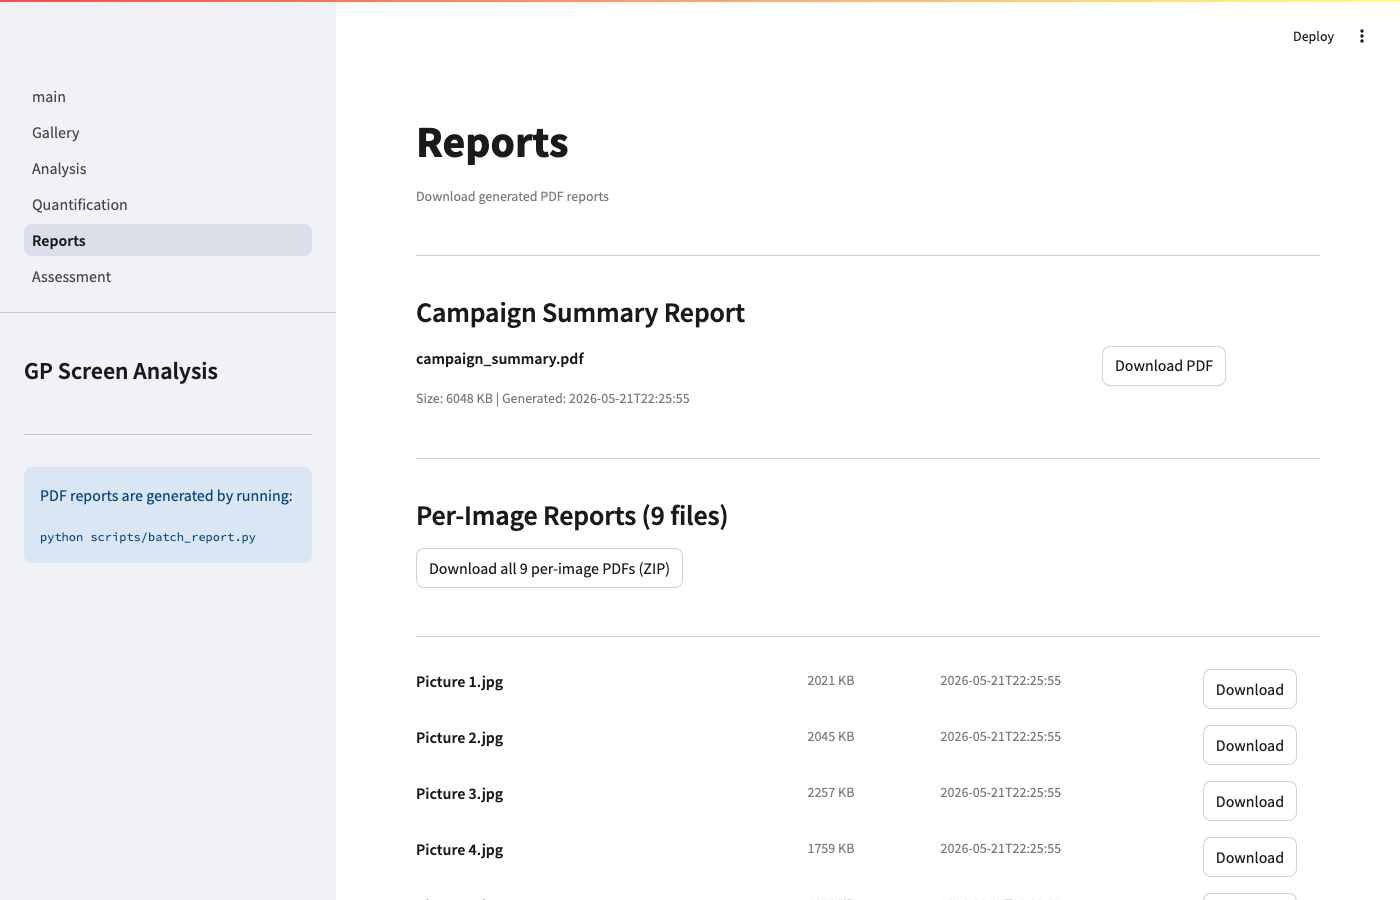
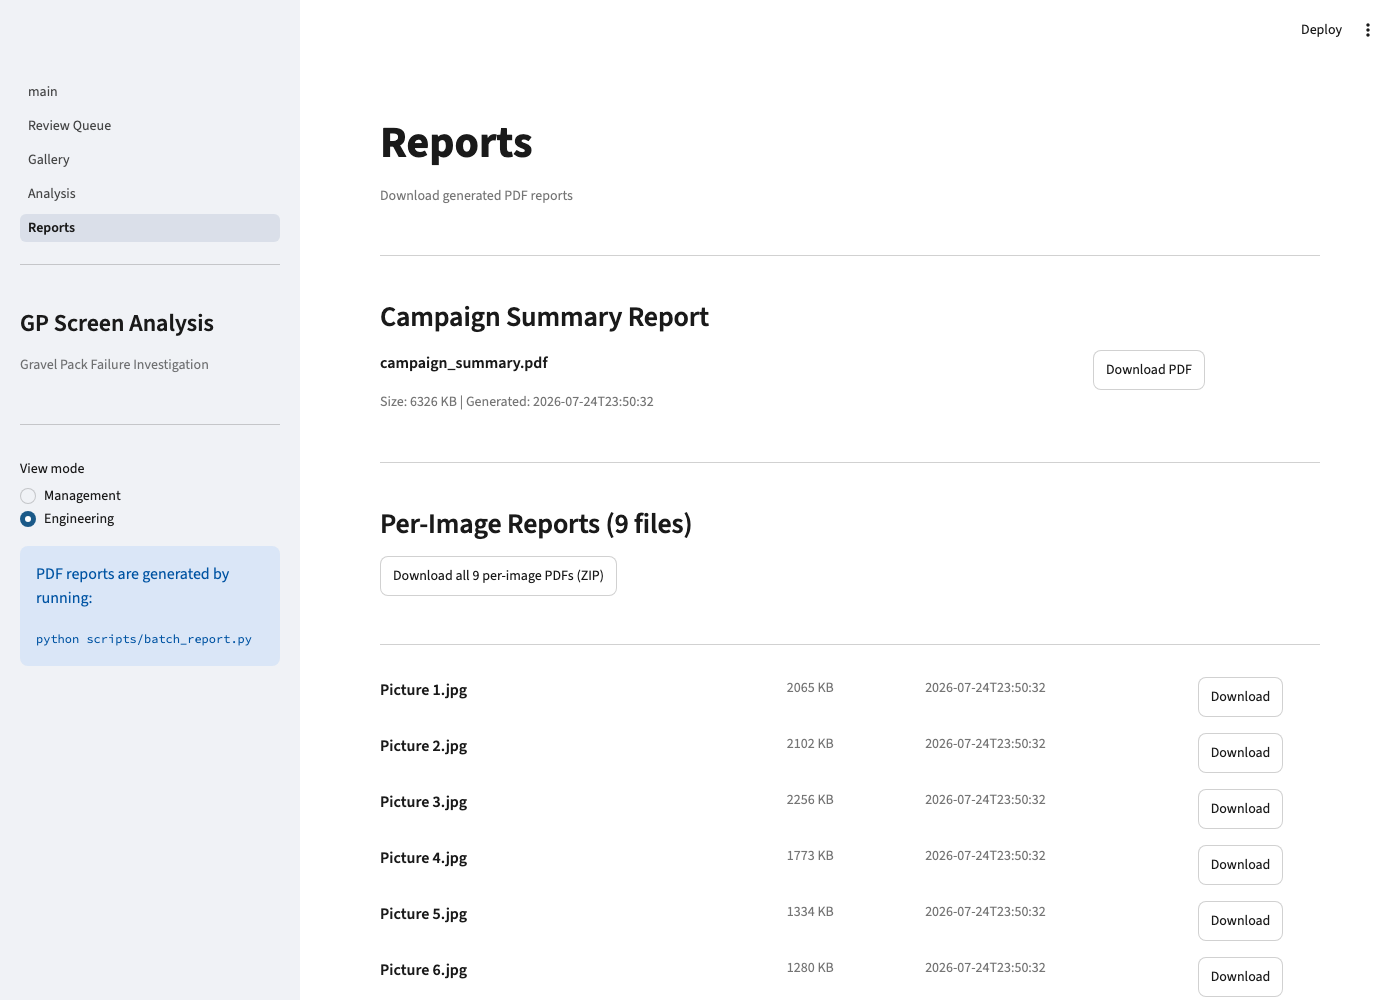
Update README screenshots for the restructured dashboard; fix report duplication bug
Replaced all screenshots (captured against the real running app via a
temporary Playwright install, since neither the Chrome extension nor
any headless browser tooling was available otherwise) to reflect the
current 5-page IA: Overview (Dashboard/Assessment/Full Data tabs),
Review Queue, Gallery (+ well tagging + screen comparison), Analysis,
Reports. Removed 5 screenshots for pages that no longer exist.

While capturing the Reports screenshot, found a real bug: every PDF
appeared twice (18 files instead of 9). insert_report() always did a
blind INSERT with an autoincrement PK, unlike every other store module
in this codebase, which upsert via a natural key — so every pipeline
re-run duplicated all report records instead of replacing them. Fixed
by looking up the existing record via (report_type, image_id) before
inserting, with no schema change (existing DBs keep their `id` column
as-is). Cleaned the 20 stale duplicate rows out of the tracked sample
DB and regenerated reports cleanly. Added 2 regression tests covering
the rerun-replaces-not-duplicates behavior for both per-image and
summary reports.

279 tests pass (2 new).

diff --git a/tests/test_reporting.py b/tests/test_reporting.py
@@ -241,8 +241,8 @@ class TestReportStore:
         db = tmp_path / "rep2.db"
         SessionFactory = ensure_table(db)
         with SessionFactory() as session:
-            insert_report(session, "per_image", "/a.pdf", "ts")
-            insert_report(session, "per_image", "/b.pdf", "ts")
+            insert_report(session, "per_image", "/a.pdf", "ts", image_id="img_a")
+            insert_report(session, "per_image", "/b.pdf", "ts", image_id="img_b")
             insert_report(session, "summary", "/s.pdf", "ts")
             session.commit()
         with SessionFactory() as session:
@@ -250,6 +250,35 @@ class TestReportStore:
             summ = get_reports(session, "summary")
         assert len(per) == 2
         assert len(summ) == 1
+
+    def test_rerun_replaces_existing_record_instead_of_duplicating(self, tmp_path):
+        db = tmp_path / "rerun.db"
+        SessionFactory = ensure_table(db)
+        with SessionFactory() as session:
+            insert_report(session, "per_image", "/out/a_v1.pdf", "ts1", image_id="img_a")
+            session.commit()
+        with SessionFactory() as session:
+            insert_report(session, "per_image", "/out/a_v2.pdf", "ts2", image_id="img_a")
+            session.commit()
+        with SessionFactory() as session:
+            recs = get_reports(session, "per_image")
+        assert len(recs) == 1
+        assert recs[0].pdf_path == "/out/a_v2.pdf"
+        assert recs[0].run_timestamp == "ts2"
+
+    def test_rerun_replaces_summary_record_instead_of_duplicating(self, tmp_path):
+        db = tmp_path / "rerun_summary.db"
+        SessionFactory = ensure_table(db)
+        with SessionFactory() as session:
+            insert_report(session, "summary", "/out/s_v1.pdf", "ts1")
+            session.commit()
+        with SessionFactory() as session:
+            insert_report(session, "summary", "/out/s_v2.pdf", "ts2")
+            session.commit()
+        with SessionFactory() as session:
+            recs = get_reports(session, "summary")
+        assert len(recs) == 1
+        assert recs[0].pdf_path == "/out/s_v2.pdf"
 
     def test_multiple_per_image_reports(self, tmp_path):
         db = tmp_path / "multi.db"

diff --git a/src/reporting/store.py b/src/reporting/store.py
@@ -36,14 +36,28 @@ def insert_report(
     image_id: str | None = None,
     source_filename: str | None = None,
 ) -> ReportRecord:
-    record = ReportRecord(
-        report_type=report_type,
-        image_id=image_id,
-        source_filename=source_filename,
-        pdf_path=pdf_path,
-        run_timestamp=run_timestamp,
+    """Insert or update the record for (report_type, image_id).
+
+    Looked up by a WHERE query rather than a natural primary key so re-running
+    the reporting pipeline replaces prior rows instead of accumulating
+    duplicates — `id` stays a plain autoincrement PK (no schema change) since
+    this table may already exist on disk with that column.
+    """
+    query = session.query(ReportRecord).filter(ReportRecord.report_type == report_type)
+    query = (
+        query.filter(ReportRecord.image_id == image_id)
+        if image_id is not None
+        else query.filter(ReportRecord.image_id.is_(None))
     )
-    session.add(record)
+    record = query.first()
+    if record is None:
+        record = ReportRecord(report_type=report_type, image_id=image_id)
+        session.add(record)
+
+    record.source_filename = source_filename
+    record.pdf_path = pdf_path
+    record.run_timestamp = run_timestamp
+
     session.flush()
     return record
 

diff --git a/README.md b/README.md
@@ -72,31 +72,34 @@ python scripts/batch_inference.py --input Image/ --output outputs/
 
 ## Dashboard Pages
 
-Role-based views are available — Engineering users see full technical detail; management views show summary KPIs and trends.
+Five pages, organised around what an engineer actually needs to do rather than
+around pipeline stages. Role-based views are available on every page —
+Engineering users see full technical detail; management views show summary
+KPIs and trends. The Management/Engineering choice persists as you navigate
+between pages.
 
-### Home — Campaign Overview
-![Home](docs/screenshots/01_home.png)
-Campaign KPIs (images analysed, mean and max erosion %, total defects, review flags), erosion % bar chart ranked by severity, failure type distribution, and severity breakdown. Hover over any erosion % metric to see the exact formula.
+### Overview — Campaign Dashboard, Assessment & Full Data
+![Overview](docs/screenshots/01_overview.png)
+Three tabs on one page instead of three separate ones. **Dashboard**: campaign KPIs (images analysed, mean/max erosion %, total defects, review flags — with a direct link into the Review Queue when any are flagged), erosion % bar chart ranked by severity, failure type distribution, and severity breakdown. **Assessment**: colour-coded campaign risk banner, observed conditions generated from actual data, morphological classification basis per failure type, potential root causes, and prioritised recommended actions. **Full Data & Export**: erosion-vs-defect-count scatter, the complete per-image metrics table, and CSV export for both the metrics table and the full defects table.
 
-### Gallery — Image Browser
-![Gallery](docs/screenshots/02_gallery.png)
-Thumbnail grid of annotated screen images, sortable by erosion % or severity, with per-card defect summary and review flags.
+### Review Queue — Triage Worklist
+![Review Queue](docs/screenshots/02_review_queue.png)
+Every detection flagged for human review, sorted least-confident-first, with the model's own reasoning string per row. Mark items reviewed inline (persisted to the database, not just session state) and the queue shrinks — toggle "show already-reviewed" to bring them back. Filter by severity or failure type, and jump straight to the full per-image view for any row.
+
+### Gallery — Browse, Tag Wells & Compare Screens
+![Gallery](docs/screenshots/03_gallery.png)
+Thumbnail grid of annotated screen images, sortable and filterable by severity or dominant failure type. Tag images with a well name and completion zone, then group the grid by well. Select two or more screens for comparison:
+
+![Gallery comparison](docs/screenshots/03b_gallery_compare.png)
+Side-by-side metrics table and annotated thumbnails for just the selected screens, plus an erosion % chart scoped to the comparison.
 
 ### Analysis — Per-Image Detail
-![Analysis](docs/screenshots/03_analysis.png)
-Six KPI cards: erosion % (formula tooltip), defect count, severity (threshold tooltip), dominant failure type, mean model confidence, and review flag count. Engineering view adds: image quality panel (focus score, illumination, quality flag, screen coverage); auto-generated engineering assessment with risk level, likely mechanism, plain-English interpretation, and morphological classification basis explaining *why* the failure type was assigned; scale calibration UI to enter pixels/mm from a visible ruler — instantly converts all diameters to mm and areas to cm²; per-defect table with the model's own reasoning string per detection.
-
-### Quantification — Metrics & Charts
-![Quantification](docs/screenshots/04_quantification.png)
-Erosion % bar chart with labelled severity thresholds and full metric definition in the caption. Full metrics table includes largest defect %, average defect diameter, and mean model confidence columns.
+![Analysis](docs/screenshots/04_analysis.png)
+Six KPI cards: erosion % (formula tooltip), defect count, severity (threshold tooltip), dominant failure type, mean model confidence, and review flag count. Engineering view adds: image quality panel (focus score, illumination, quality flag, screen coverage); auto-generated engineering assessment with risk level, likely mechanism, plain-English interpretation, and morphological classification basis explaining *why* the failure type was assigned; scale calibration UI to enter pixels/mm from a visible ruler — instantly converts all diameters to mm and areas to cm²; per-defect table with the model's own reasoning string per detection and an inline reviewed checkbox that stays in sync with the Review Queue. Reachable directly from a Review Queue row, landing on the right image.
 
 ### Reports — PDF Downloads
 ![Reports](docs/screenshots/05_reports.png)
 Download the campaign summary PDF or individual per-image annotated engineering reports as a ZIP archive.
-
-### Engineering Assessment — Campaign Synthesis
-![Assessment](docs/screenshots/06_assessment.png)
-Campaign-level engineering synthesis: colour-coded overall risk banner with risk description; observed conditions generated from actual data (failure type prevalence across all screens, worst-case erosion, review flag count); morphological classification basis per detected failure type in expandable panels; potential root causes derived from the combination of failure types; severity distribution with threshold explanation; prioritised recommended actions synthesised from all failure types; and a per-screen summary table sorted by erosion %.
 
 ---
 
